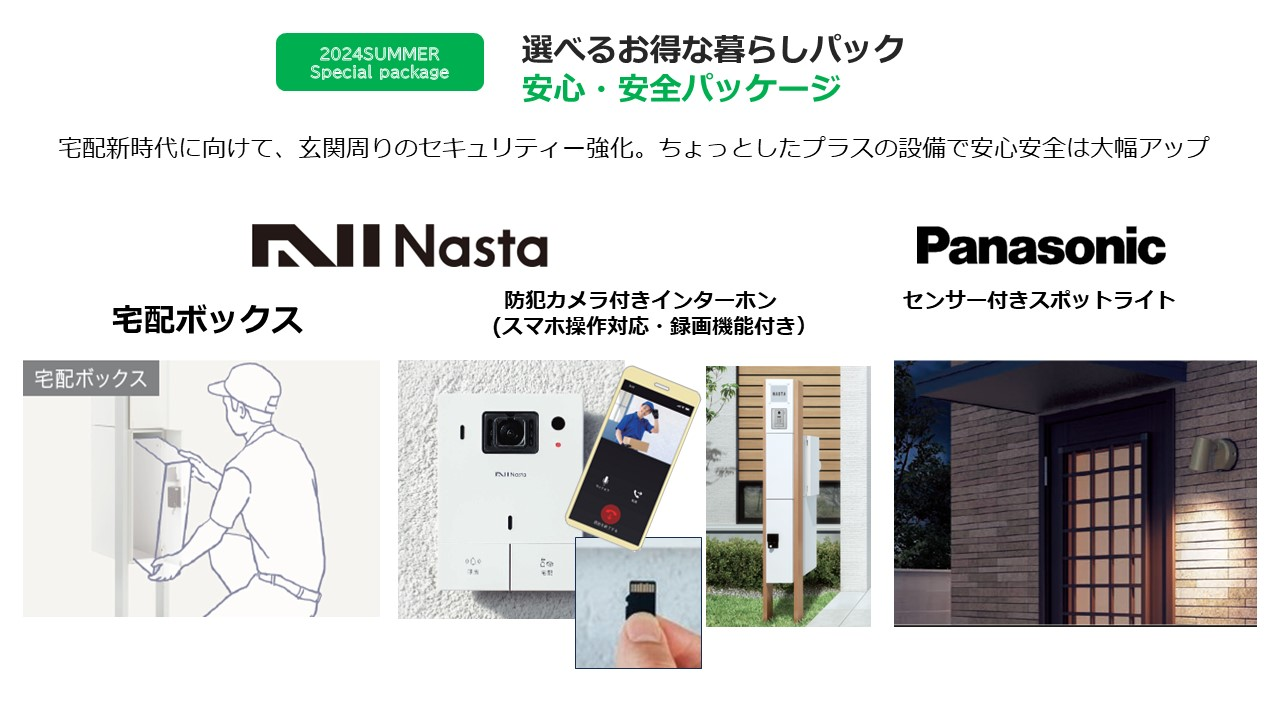
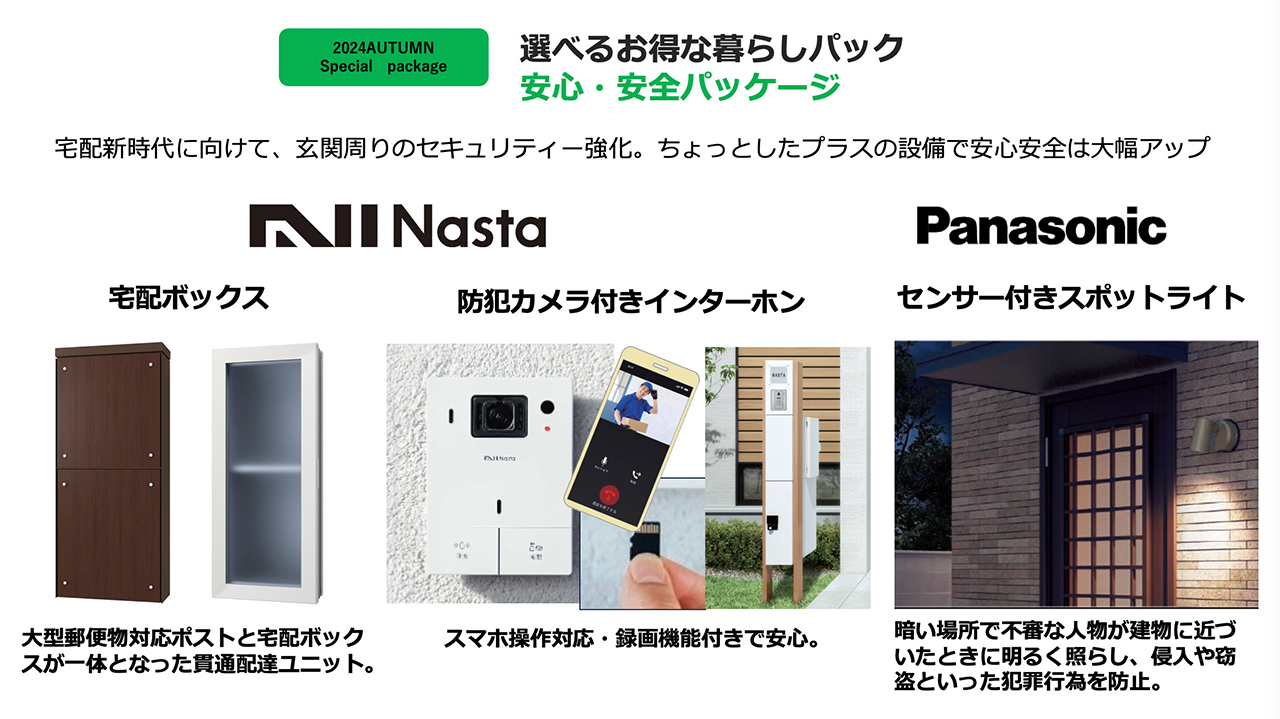
キャンペーン更新

diff --git a/src/pages/information.js b/src/pages/information.js
@@ -27,15 +27,15 @@ const SecondPage = () => (
             <section className="article__section article__section01">
               <h2>選べるお得な暮らしパック</h2>
               <p className="text-center h3 mb-5">これからの住空間にも馴染みやすいスタイルとしてシーンごとにデザイナーがパッケージ監修してご提案。</p>
-              <p className="text-center h3 mb-5"><a href="https://www.royal-house.co.jp/campaign/">新感覚の注文住宅誕生キャンペーン</a></p>
-              <p className="text-center h3 mb-5">期間：2024年7月1日（月）～2024年9月29日（日）</p>
+              <p className="text-center h3 mb-5"><a href="https://www.royal-house.co.jp/campaign/">お得に災害対策家づくりキャンペーン</a></p>
+              <p className="text-center h3 mb-5">期間：2024年10月1日（火）～2024年12月29日（日）</p>
               <ul className="info-bnr__list">
                 <li><h3>1 水からキレイパッケージ</h3></li>
-                <li className="center"><img src={withPrefix("/images/information/pack_img01.jpg")} alt="選べるお得な暮らしパック 水からキレイパッケージ　健康・美谷パッケージ。毎日、水と美容にこだわるサイエンスの人気3点セット　ミラブルゼロ / 美-fine-ウォーター / ミラバス" /></li>
-                <li><h3>2 バルコニー充実パッケージ</h3></li>
-                <li className="center"><img src={withPrefix("/images/information/pack_img02.jpg")} alt="選べるお得な暮らしパック こだわり収納パッケージ　こだわりの収納パッケージ。空問活用収納で収納カアップ。有効スペースを立体的に活用。　ワークスペース / 本棚 / ウォークインクローゼット" /></li>
+                <li className="center"><img src={withPrefix("/images/information/pack_img01.jpg")} alt="" /></li>
+                <li><h3>2 防災セーフティパッケージ</h3></li>
+                <li className="center"><img src={withPrefix("/images/information/pack_img02.jpg")} alt="" /></li>
                 <li><h3>3 安心安全パッケージ</h3>{/* <p className="h3 mb-5">家事楽動線をデザインした家族でワイワイにぎやかな空間に</p> */}</li>
-                <li className="center"><img src={withPrefix("/images/information/pack_img03.jpg")} alt="選べるお得な暮らしパック 安心・安全パッケージ　宅配新時代に向けて、玄関周りのセキュリティー強化。ちょっとしたプラスの設備で安心安全は大幅アップ　宅配ボックス / 防犯カメラ付きインターホン（スマホ操作対応・録画機能付き）" /></li>
+                <li className="center"><img src={withPrefix("/images/information/pack_img03.jpg")} alt="" /></li>
               </ul>
             </section>
           </div>

diff --git a/src/components/layout.js b/src/components/layout.js
@@ -30,7 +30,7 @@ const Layout = ({ children }) => {
       <Header siteTitle={data.site.siteMetadata?.title || `Title`} />
       <main className="l-main">{children}</main>
        <div className="campaign-bnr">
-       <Link to="https://www.royal-house.co.jp/campaign/" target="_blank" className="map-balloon__link" activeClassName="is-current"><img src={withPrefix("/images/bnr_cp_2024summer.png")} alt="新感覚の注文住宅誕生キャンペーン キャンペーン期間 7/1〜9/29" className="pc" /><img src={withPrefix("/images/bnr_cp_2024summer-sp.png")} alt="新感覚の注文住宅誕生キャンペーン キャンペーン期間 7/1〜9/29" className="sp" /></Link>
+       <Link to="https://www.royal-house.co.jp/campaign/" target="_blank" className="map-balloon__link" activeClassName="is-current"><img src={withPrefix("/images/bnr_cp_2024autumn.png")} alt="価値ある家づくりフェア | お得に災害対策家づくりキャンペーン キャンペーン期間 10/1〜12/29 | 総額1000万円応募キャンペーン 応募期間 10/11〜12/1" className="pc" /><img src={withPrefix("/images/bnr_cp_2024autumn-sp.png")} alt="価値ある家づくりフェア | お得に災害対策家づくりキャンペーン キャンペーン期間 10/1〜12/29 | 総額1000万円応募キャンペーン 応募期間 10/11〜12/1" className="sp" /></Link>
   </div>
       
       <div className="yt-modal--main" style={{display:'none'}}>
